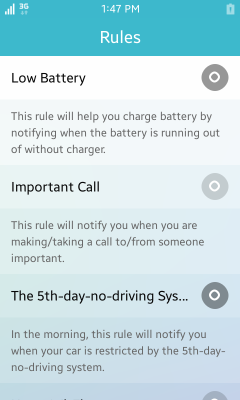
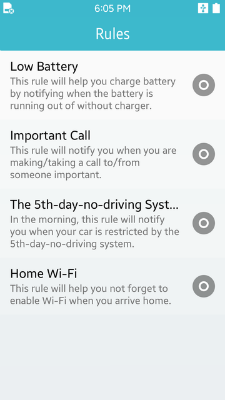
[SAMPLE APP][Context Trigger] genlist UI changed

diff --git a/org.tizen.sampledescriptions/html/mobile_n/context_trigger_sd_mn.htm b/org.tizen.sampledescriptions/html/mobile_n/context_trigger_sd_mn.htm
@@ -145,77 +145,47 @@ void remove_rules(void)
 
 <p>To create the genlist:</p>
 <ol><li>
-<p>The genlist is created using the <span style="font-family: Courier New,Courier,monospace">elm_genlist_add()</span> function. For the genlist to be displayed properly, genlist item classes have to be created and defined with the <span style="font-family: Courier New,Courier,monospace">elm_genlist_item_class_new()</span> function. The following code snippet demonstrates how to set the item class properties. A <span style="font-family: Courier New,Courier,monospace">text_get</span> and a <span style="font-family: Courier New,Courier,monospace">content_get</span> callback function are defined to create item text and layout creation.</p>
+<p>The genlist is created using the <span style="font-family: Courier New,Courier,monospace">elm_genlist_add()</span> function. For the genlist to be displayed properly, a genlist item class has to be created and defined with the <span style="font-family: Courier New,Courier,monospace">elm_genlist_item_class_new()</span> function. The following code snippet demonstrates how to set the item class properties. A <span style="font-family: Courier New,Courier,monospace">text_get</span> and a <span style="font-family: Courier New,Courier,monospace">content_get</span> callback function are defined to create item text and layout creation.</p>
 
 <pre class="prettyprint">
 Evas_Object *genlist;
-Elm_Genlist_Item_Class *itc_name, *itc_description;
+Elm_Genlist_Item_Class *itc;
 int index;
 
 /* Create item class */
-itc_name = elm_genlist_item_class_new();
-itc_name-&gt;item_style = &quot;default&quot;;
-itc_name-&gt;func.text_get = gl_text_name_get_cb;
-itc_name-&gt;func.content_get = gl_content_get_cb;
-
-itc_description = elm_genlist_item_class_new();
-itc_description-&gt;item_style = &quot;multiline&quot;;
-itc_description-&gt;func.text_get = gl_text_description_get_cb;
+itc = elm_genlist_item_class_new();
+itc->item_style = "multiline";
+itc->func.text_get = gl_text_get_cb;
+itc->func.content_get = gl_content_get_cb;
 
 /* Genlist */
-genlist = elm_genlist_add(ad-&gt;nf);
-Evas_Object *genlist = elm_genlist_add(viewdata.win);
-
-// Error handling
-
-viewdata.item_class = elm_genlist_item_class_new();
-
-// Error handling
-
-viewdata.item_class-&gt;item_style = &quot;full&quot;;
-viewdata.item_class-&gt;func.text_get = NULL;
-viewdata.item_class-&gt;func.content_get = __get_item_content;
-viewdata.item_class-&gt;func.state_get = NULL;
-viewdata.item_class-&gt;func.del = NULL;
+genlist = elm_genlist_add(ad->nf);
+elm_genlist_mode_set(genlist, ELM_LIST_COMPRESS);
+evas_object_size_hint_weight_set(genlist, EVAS_HINT_EXPAND, EVAS_HINT_EXPAND);
+evas_object_size_hint_align_set(genlist, EVAS_HINT_FILL, EVAS_HINT_FILL);
 </pre></li>
 
 <li>
-<p>The genlist is filled with rule items and its descriptions. To append items to the genlist, the <span style="font-family: Courier New,Courier,monospace">elm_genlist_item_append()</span> function is invoked for each <span style="font-family: Courier New,Courier,monospace">Eina_List</span> item.</p>
+<p>The genlist is filled with rule items. To append items to the genlist, the <span style="font-family: Courier New,Courier,monospace">elm_genlist_item_append()</span> function is invoked for each <span style="font-family: Courier New,Courier,monospace">Eina_List</span> item.</p>
 
 <pre class="prettyprint">
 // For each rule
 for (index = RULE_FIRST; index < RULE_LAST; index++) {
-&nbsp;&nbsp;&nbsp;/* Rule name item */
-&nbsp;&nbsp;&nbsp;if (ruleinfo_arr[index].result == CONTEXT_TRIGGER_ERROR_NONE) {
-&nbsp;&nbsp;&nbsp;&nbsp;&nbsp;&nbsp;elm_genlist_item_append(genlist, itc_name, (void *) &ruleinfo_arr[index], NULL, ELM_GENLIST_ITEM_NONE, gl_selected_cb, NULL);
-&nbsp;&nbsp;&nbsp;} else {
-&nbsp;&nbsp;&nbsp;&nbsp;&nbsp;&nbsp;elm_genlist_item_append(genlist, itc_name, (void *) &ruleinfo_arr[index], NULL, ELM_GENLIST_ITEM_NONE, gl_disabled_selected_cb, ad);
-&nbsp;&nbsp;&nbsp;}
-
-&nbsp;&nbsp;&nbsp;/* Rule description item */
-&nbsp;&nbsp;&nbsp;Elm_Object_Item *item = elm_genlist_item_append(genlist, itc_description, (void *) &ruleinfo_arr[index], NULL, ELM_GENLIST_ITEM_NONE, NULL, NULL);
-&nbsp;&nbsp;&nbsp;elm_genlist_item_select_mode_set(item, ELM_OBJECT_SELECT_MODE_DISPLAY_ONLY);
+&nbsp;&nbsp;&nbsp;/* Rule item */
+&nbsp;&nbsp;&nbsp;elm_genlist_item_append(genlist, itc, (void *)&amp;ruleinfo_arr[index], NULL, ELM_GENLIST_ITEM_NONE, gl_selected_cb, ad);
 }
 </pre></li>
 
 <li>
-<p>The application&#39;s <span style="font-family: Courier New,Courier,monospace">rule_info</span> structure containing its rule information such as name, description, and so on. It is later passed on to the previously defined callback function. The following example shows the <span style="font-family: Courier New,Courier,monospace">gl_text_name_get_cb</span>, the <span style="font-family: Courier New,Courier,monospace">gl_text_description_get_cb</span>, the <span style="font-family: Courier New,Courier,monospace">gl_content_get_cb</span> callback function. Rule information is retrieved from the parameter and used to create the item layout.</p>
+<p>The application&#39;s <span style="font-family: Courier New,Courier,monospace">rule_info</span> structure containing its rule information such as name, description, and so on. It is later passed on to the previously defined callback function. The following example shows the <span style="font-family: Courier New,Courier,monospace">gl_text_get_cb</span>, and the <span style="font-family: Courier New,Courier,monospace">gl_content_get_cb</span> callback function. Rule information is retrieved from the parameter and used to create the item layout.</p>
 <pre class="prettyprint">
-static char *gl_text_name_get_cb(void *data, Evas_Object * obj, const char *part)
+static char *gl_text_get_cb(void *data, Evas_Object * obj, const char *part)
 {
 &nbsp;&nbsp;&nbsp;rule_info_s *info = (rule_info_s *) data;
 
 &nbsp;&nbsp;&nbsp;if (!strcmp(part, "elm.text"))
 &nbsp;&nbsp;&nbsp;&nbsp;&nbsp;&nbsp;return strdup(info->name);
-
-&nbsp;&nbsp;&nbsp;return NULL;
-}
-
-static char *gl_text_description_get_cb(void *data, Evas_Object * obj, const char *part)
-{
-&nbsp;&nbsp;&nbsp;rule_info_s *info = (rule_info_s *) data;
-
-&nbsp;&nbsp;&nbsp;if (!strcmp(part, "elm.text.multiline"))
+&nbsp;&nbsp;&nbsp;else if (!strcmp(part, "elm.text.multiline"))
 &nbsp;&nbsp;&nbsp;&nbsp;&nbsp;&nbsp;return strdup(info->description);
 
 &nbsp;&nbsp;&nbsp;return NULL;
@@ -247,26 +217,30 @@ static Evas_Object *gl_content_get_cb(void *data, Evas_Object * obj, const char 
 </pre></li>
 </ol>
 
-<p>When a genlist item or a check button is clicked, corresponding rule will be enabled or disabled.</p>
+<p>When a genlist item or a check button is clicked, corresponding rule will be enabled or disabled. If the user taps an rule item which fails to be added for some reasons, an error popup will be shown to indicate the reasons.</p>
 <pre class="prettyprint">
-static void gl_selected_cb(void *data EINA_UNUSED, Evas_Object * obj EINA_UNUSED, void *event_info)
+static void gl_selected_cb(void *data, Evas_Object * obj EINA_UNUSED, void *event_info)
 {
 &nbsp;&nbsp;&nbsp;Elm_Object_Item *it = (Elm_Object_Item *) event_info;
-&nbsp;&nbsp;&nbsp;int error = CONTEXT_TRIGGER_ERROR_NONE;
-
-&nbsp;&nbsp;&nbsp;rule_info_s *info = elm_object_item_data_get(it);
 &nbsp;&nbsp;&nbsp;elm_genlist_item_selected_set(it, false);
 
-&nbsp;&nbsp;&nbsp;Evas_Object *check = elm_object_item_part_content_get(it, "elm.swallow.end");
+&nbsp;&nbsp;&nbsp;rule_info_s *info = elm_object_item_data_get(it);
 
-&nbsp;&nbsp;&nbsp;if (elm_check_state_get(check)) {
-&nbsp;&nbsp;&nbsp;&nbsp;&nbsp;&nbsp;error = disable_rule(info->id);
-&nbsp;&nbsp;&nbsp;&nbsp;&nbsp;&nbsp;if (error == CONTEXT_TRIGGER_ERROR_NONE)
-&nbsp;&nbsp;&nbsp;&nbsp;&nbsp;&nbsp;&nbsp;&nbsp;&nbsp;elm_check_state_set(check, !info->enabled);
+&nbsp;&nbsp;&nbsp;if (info->result == CONTEXT_TRIGGER_ERROR_NONE) {
+&nbsp;&nbsp;&nbsp;&nbsp;&nbsp;&nbsp;int error = CONTEXT_TRIGGER_ERROR_NONE;
+&nbsp;&nbsp;&nbsp;&nbsp;&nbsp;&nbsp;Evas_Object *check = elm_object_item_part_content_get(it, "elm.swallow.end");
+
+&nbsp;&nbsp;&nbsp;&nbsp;&nbsp;&nbsp;if (elm_check_state_get(check)) {
+&nbsp;&nbsp;&nbsp;&nbsp;&nbsp;&nbsp;&nbsp;&nbsp;&nbsp;error = disable_rule(info->id);
+&nbsp;&nbsp;&nbsp;&nbsp;&nbsp;&nbsp;&nbsp;&nbsp;&nbsp;if (error == CONTEXT_TRIGGER_ERROR_NONE)
+&nbsp;&nbsp;&nbsp;&nbsp;&nbsp;&nbsp;&nbsp;&nbsp;&nbsp;&nbsp;&nbsp;&nbsp;elm_check_state_set(check, !info->enabled);
+&nbsp;&nbsp;&nbsp;&nbsp;&nbsp;&nbsp;} else {
+&nbsp;&nbsp;&nbsp;&nbsp;&nbsp;&nbsp;&nbsp;&nbsp;&nbsp;error = enable_rule(info->id);
+&nbsp;&nbsp;&nbsp;&nbsp;&nbsp;&nbsp;&nbsp;&nbsp;&nbsp;if (error == CONTEXT_TRIGGER_ERROR_NONE)
+&nbsp;&nbsp;&nbsp;&nbsp;&nbsp;&nbsp;&nbsp;&nbsp;&nbsp;&nbsp;&nbsp;&nbsp;elm_check_state_set(check, !info->enabled);
+&nbsp;&nbsp;&nbsp;&nbsp;&nbsp;&nbsp;}
 &nbsp;&nbsp;&nbsp;} else {
-&nbsp;&nbsp;&nbsp;&nbsp;&nbsp;&nbsp;error = enable_rule(info->id);
-&nbsp;&nbsp;&nbsp;&nbsp;&nbsp;&nbsp;if (error == CONTEXT_TRIGGER_ERROR_NONE)
-&nbsp;&nbsp;&nbsp;&nbsp;&nbsp;&nbsp;&nbsp;&nbsp;&nbsp;elm_check_state_set(check, !info->enabled);
+&nbsp;&nbsp;&nbsp;&nbsp;&nbsp;&nbsp;create_error_popup(data, info);
 &nbsp;&nbsp;&nbsp;}
 }
 
@@ -284,6 +258,42 @@ static void check_changed_cb(void *data, Evas_Object * obj, void *event_info EIN
 &nbsp;&nbsp;&nbsp;&nbsp;&nbsp;&nbsp;if (error != CONTEXT_TRIGGER_ERROR_NONE)
 &nbsp;&nbsp;&nbsp;&nbsp;&nbsp;&nbsp;&nbsp;&nbsp;&nbsp;elm_check_state_set(obj, !info->enabled);
 &nbsp;&nbsp;&nbsp;}
+}
+
+static void create_error_popup(appdata_s * ad, void *data)
+{
+&nbsp;&nbsp;&nbsp;rule_info_s *info = (rule_info_s *) data;
+
+&nbsp;&nbsp;&nbsp;char *err_msg = NULL;
+
+&nbsp;&nbsp;&nbsp;switch (info->result) {
+&nbsp;&nbsp;&nbsp;case CONTEXT_TRIGGER_ERROR_PERMISSION_DENIED:
+&nbsp;&nbsp;&nbsp;&nbsp;&nbsp;&nbsp;err_msg = ERR_MSG_PERMISSION_DENIED;
+&nbsp;&nbsp;&nbsp;&nbsp;&nbsp;&nbsp;break;
+&nbsp;&nbsp;&nbsp;case CONTEXT_TRIGGER_ERROR_NOT_SUPPORTED:
+&nbsp;&nbsp;&nbsp;&nbsp;&nbsp;&nbsp;err_msg = ERR_MSG_NOT_SUPPORTED;
+&nbsp;&nbsp;&nbsp;&nbsp;&nbsp;&nbsp;break;
+&nbsp;&nbsp;&nbsp;case CONTEXT_TRIGGER_ERROR_INVALID_RULE:
+&nbsp;&nbsp;&nbsp;&nbsp;&nbsp;&nbsp;err_msg = ERR_MSG_INVALID_RULE;
+&nbsp;&nbsp;&nbsp;&nbsp;&nbsp;&nbsp;break;
+&nbsp;&nbsp;&nbsp;default:
+&nbsp;&nbsp;&nbsp;&nbsp;&nbsp;&nbsp;err_msg = ERR_MSG_DEFAULT;
+&nbsp;&nbsp;&nbsp;&nbsp;&nbsp;&nbsp;break;
+&nbsp;&nbsp;&nbsp;}
+
+&nbsp;&nbsp;&nbsp;Evas_Object *popup = elm_popup_add(ad->win);
+&nbsp;&nbsp;&nbsp;elm_popup_align_set(popup, ELM_NOTIFY_ALIGN_FILL, 1.0);
+&nbsp;&nbsp;&nbsp;eext_object_event_callback_add(popup, EEXT_CALLBACK_BACK, eext_popup_back_cb, NULL);
+&nbsp;&nbsp;&nbsp;elm_object_part_text_set(popup, "title,text", info->name);
+
+&nbsp;&nbsp;&nbsp;elm_object_text_set(popup, err_msg);
+
+&nbsp;&nbsp;&nbsp;Evas_Object *btn = elm_button_add(popup);
+&nbsp;&nbsp;&nbsp;elm_object_style_set(btn, "popup");
+&nbsp;&nbsp;&nbsp;elm_object_text_set(btn, "OK");
+&nbsp;&nbsp;&nbsp;elm_object_part_content_set(popup, "button1", btn);
+&nbsp;&nbsp;&nbsp;evas_object_smart_callback_add(btn, "clicked", popup_btn_clicked_cb, popup);
+&nbsp;&nbsp;&nbsp;evas_object_show(popup);
 }
 </pre>
 
